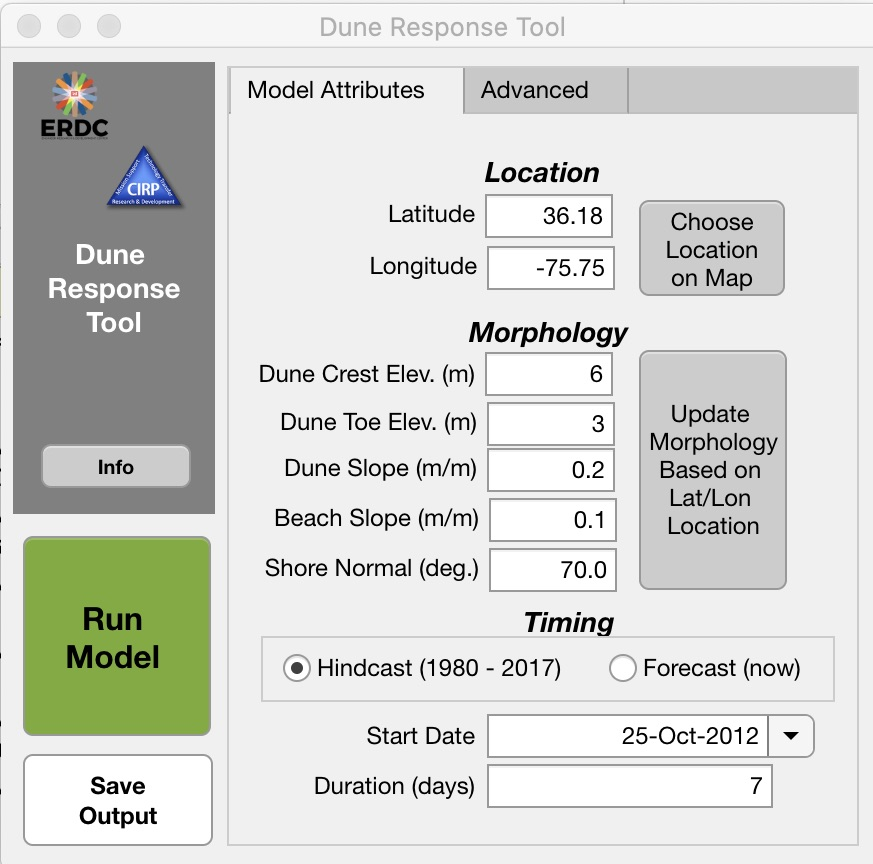
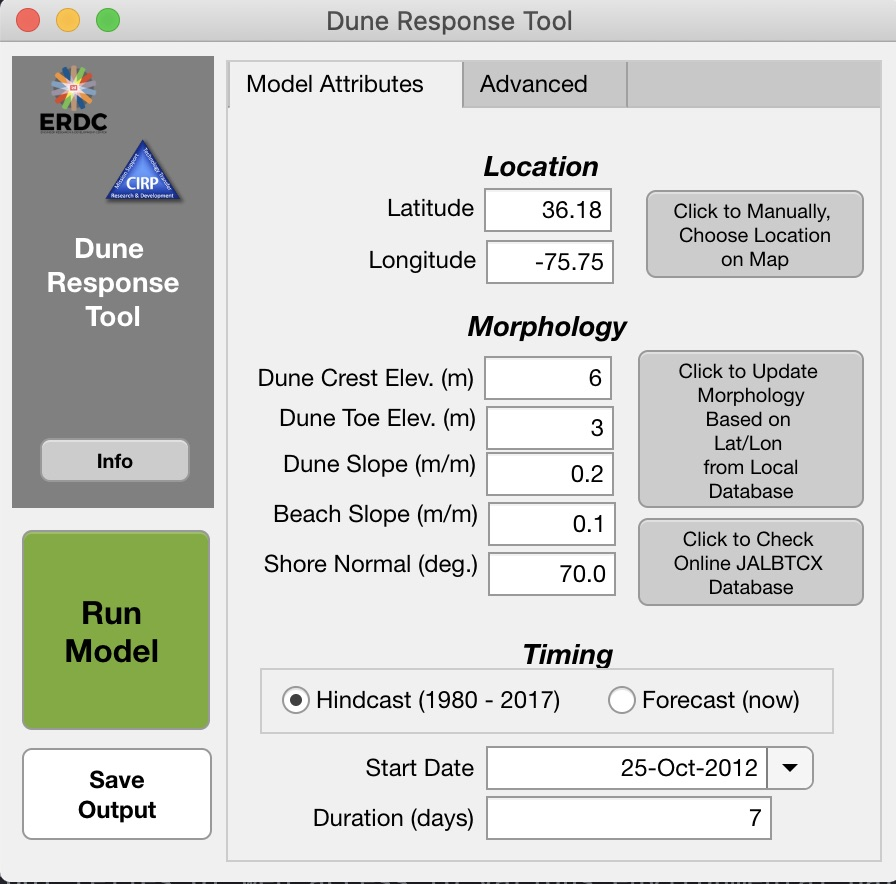
paper updates

Changed region(s): [[0.0, 0.0, 1.0, 1.0], [0.0619, 0.6562, 0.1856, 0.7812]]

diff --git a/paper/paper.md b/paper/paper.md
@@ -54,7 +54,7 @@ The code includes pre-processing scripts which automatically download relevant o
 any ocean-fronting coastline in the continental US in both hindcasting (any date from 1980 to 2017) and
 forecasting (now to 4 days from now) mode as shown in \autoref{fig:fig1}.
 
-Simplified beach-dune profiles can be generated from a database of morphometric data hat covers the majority of the U.S. oceanfront coastline that was derived from datasets from @USGS:2017 for the Gulf and Atlantic US coastlines and @Mull:2014 for the US Pacific Northwest coastline. Data is stored in an excel file included with the code that can be modified to add new morphometric data in case of updated data availability in the future. Where pre-compiled beach and dune profile data does not exist or where the user wishes to input their own morphology information, this information can be input into the tool. A gridded profile is generated from the morphology data for input into the volume change models.
+Simplified beach-dune profiles can be generated from a database of morphometric data hat covers the majority of the U.S. oceanfront coastline that was derived from datasets from @USGS:2017 for the Gulf and Atlantic US coastlines and @Mull:2014 for the US Pacific Northwest coastline. Data is stored in an excel file included with the code that can be modified to add new morphometric data in case of updated data availability in the future. Where pre-compiled beach and dune profile data does not exist or where the user wishes to input their own morphology information, this information can be input into the tool. An additional radio button is added to call the ArcGIS server for the Joint Airborne Lidar Bathymetry Technical Center of Expertise (JALBTCX) which provides dune crest and dune toe elevation data for portions of the US coastline as well. A gridded profile based on the user or database provided morphometrics is then generated  for input into the volume change models.
 
 The downloaded environmental forcings are subsequently used to calculate volumetric dune erosion for a user-defined time interval at hourly time steps utilizing a 1D dune erosion model based on @Palmsten:2012. A set of equations for estimating wind-blown transport into dunes following the general approach of @Delgado:2011, implementing the transport equation of @Kawamura:1951, is also included.
 
@@ -69,7 +69,7 @@ An example of a model setup initialized on 29 October 2012 at 39.42°N, 74.32°W
 ![Example model hindcast model output for Hurricane Sandy for a site in Brigantine, New Jersey, USA. Time series of wind, wave, and water levels are provided in the upper panels. Simulated erosional profile change is shown in the bottom left panel. Volumetric wave-driven dune erosion (blue line) and wind-driven volumetric dune growth (red line) are shown in the bottom right panel. \label{fig:fig3}](DRT_Example.jpg)
 
 # Installation
-The code consists of a matlab-based .mlapp interface which calls a series of individual .m scripts, as described in \autoref{fig:fig1}. These scripts can also be run independently outside of the GUI. In case of compatibility issues or non-access to Matlab, a compiled executable for the DRT GUI is provided on the site for Windows or MacOS platforms to make the tool more accessible to non-coders.
+The code consists of a matlab-based .mlapp interface which calls a series of individual .m scripts, as described in \autoref{fig:fig1}. These scripts can also be run independently outside of the GUI.
 
 # Future Work
 This initial tool development utilizes available datasets for a subset of the continental US. Future iterations could include morphologic datasets that also cover California, Hawaii, Alaska, and the Great Lakes region, as well as overseas regions. This initial domain was based on ease of access to data availability.
